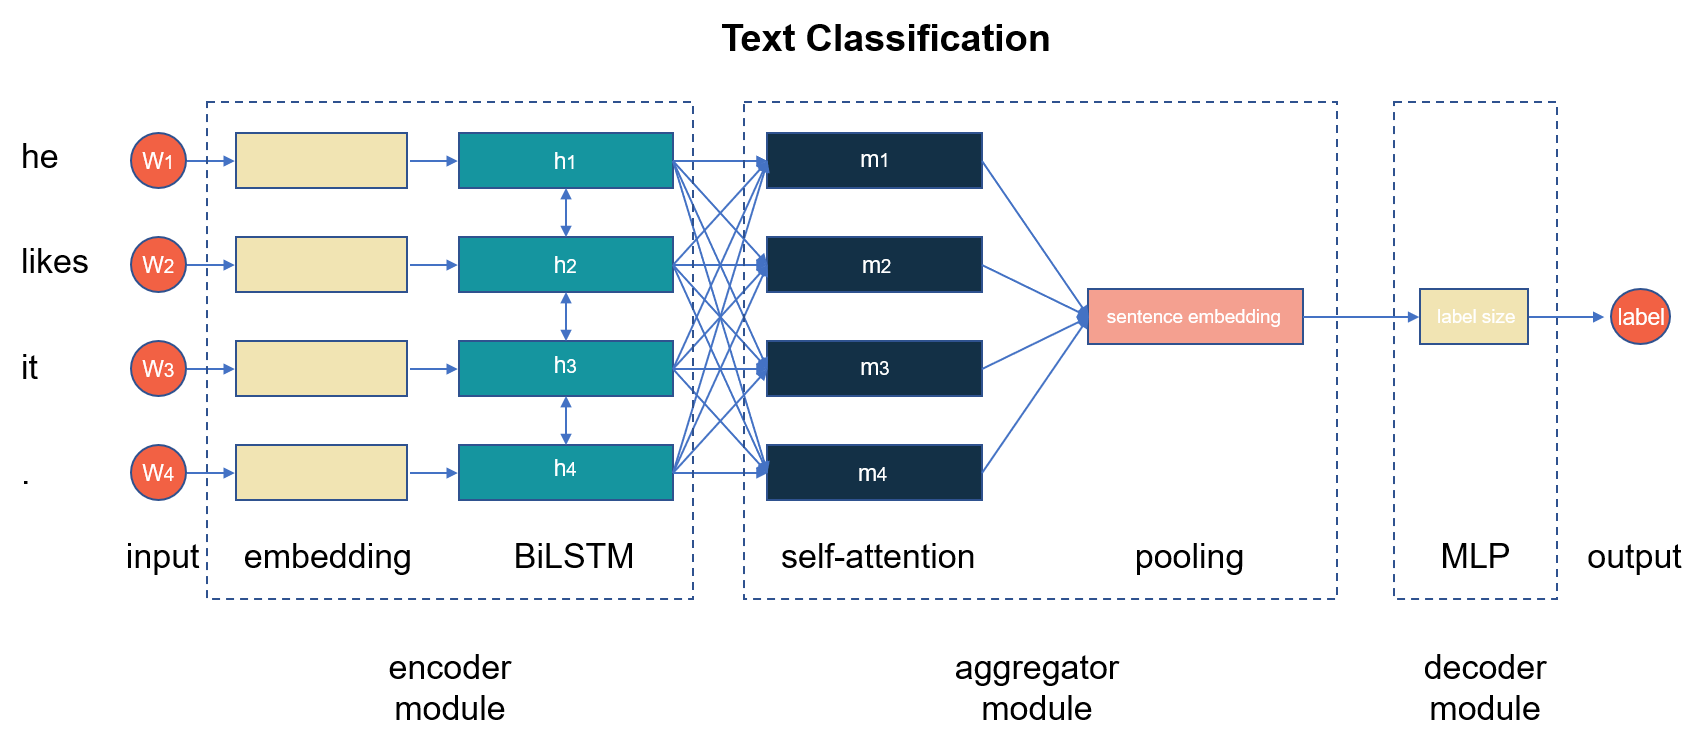
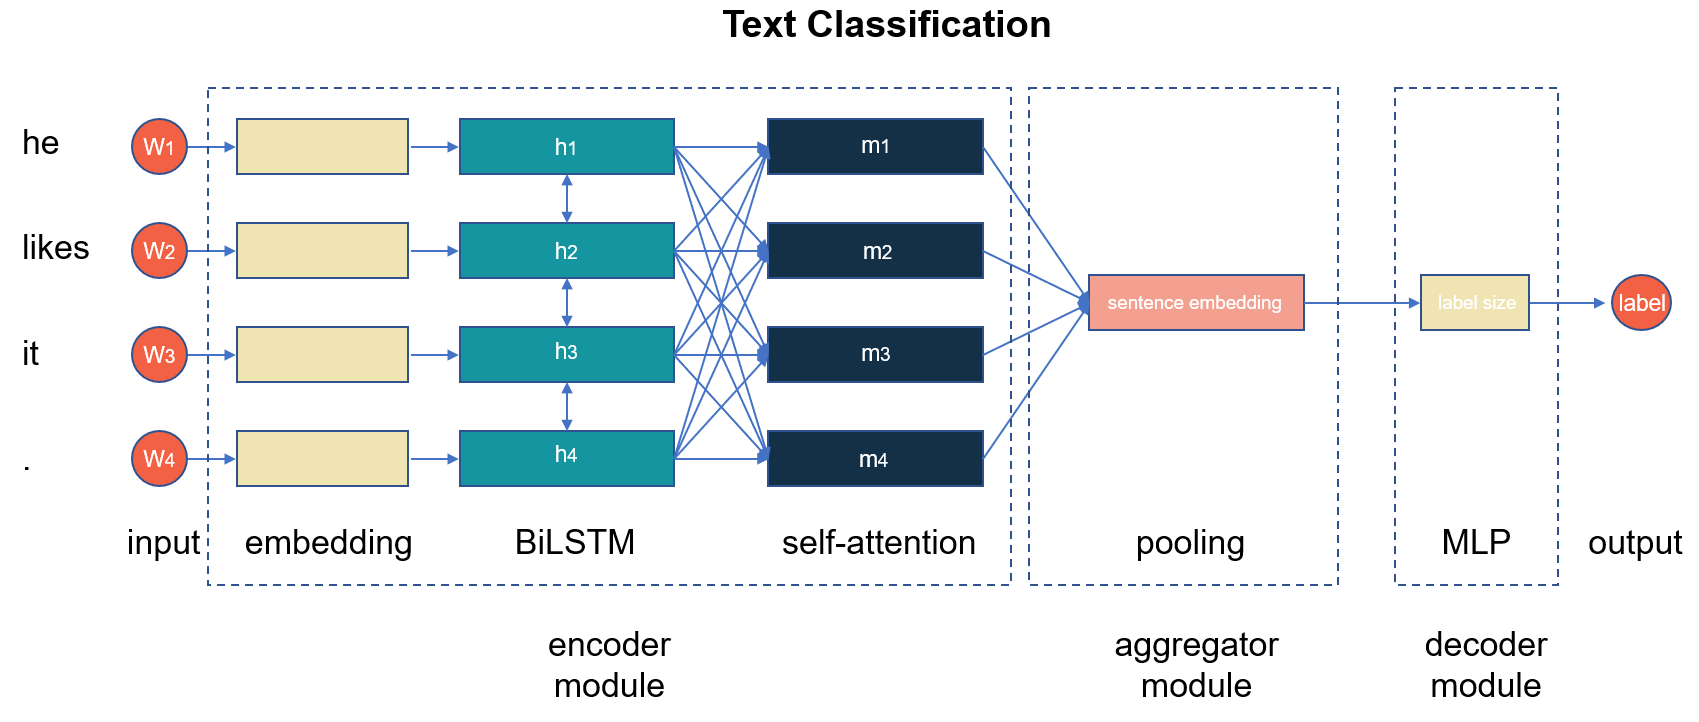
* fix README figure * refine code style

diff --git a/fastNLP/io/dataset_loader.py b/fastNLP/io/dataset_loader.py
@@ -417,7 +417,7 @@ class PeopleDailyCorpusLoader(DataSetLoader):
         data_set.set_input("seq_len")
         return data_set
 
-    
+
 class Conll2003Loader(DataSetLoader):
     """Self-defined loader of conll2003 dataset
     
@@ -425,14 +425,14 @@ class Conll2003Loader(DataSetLoader):
         https://sites.google.com/site/ermasoftware/getting-started/ne-tagging-conll2003-data 
     
     """
-    
+
     def __init__(self):
         super(Conll2003Loader, self).__init__()
-        
+
     def load(self, dataset_path):
         with open(dataset_path, "r", encoding="utf-8") as f:
             lines = f.readlines()
-        
+
         ##Parse the dataset line by line
         parsed_data = []
         sentence = []
@@ -444,13 +444,13 @@ class Conll2003Loader(DataSetLoader):
                     sentence = []
                     tokens = []
                 continue
-                
+
             temp = line.strip().split(" ")
-            sentence.append(temp[0]) 
+            sentence.append(temp[0])
             tokens.append(temp[1:4])
-                           
+
         return self.convert(parsed_data)
-            
+
     def convert(self, parsed_data):
         dataset = DataSet()
         for sample in parsed_data:
@@ -460,11 +460,11 @@ class Conll2003Loader(DataSetLoader):
                 lambda labels: labels[1], sample[1]))
             label2_list = list(map(
                 lambda labels: labels[2], sample[1]))
-            dataset.append(Instance(token_list=sample[0], 
-                                    label0_list=label0_list, 
+            dataset.append(Instance(token_list=sample[0],
+                                    label0_list=label0_list,
                                     label1_list=label1_list,
                                     label2_list=label2_list))
-            
+
         return dataset
 
 class SNLIDataSetLoader(DataSetLoader):

diff --git a/test/io/test_dataset_loader.py b/test/io/test_dataset_loader.py
@@ -1,9 +1,10 @@
-import os
 import unittest
 
 from fastNLP.io.dataset_loader import Conll2003Loader
+
+
 class TestDatasetLoader(unittest.TestCase):
-    
+
     def test_case_1(self):
         '''
             Test the the loader of Conll2003 dataset
@@ -12,7 +13,7 @@ class TestDatasetLoader(unittest.TestCase):
         dataset_path = "test/data_for_tests/conll_2003_example.txt"
         loader = Conll2003Loader()
         dataset_2003 = loader.load(dataset_path)
-        
+
         for item in dataset_2003:
             len0 = len(item["label0_list"])
             len1 = len(item["label1_list"])
